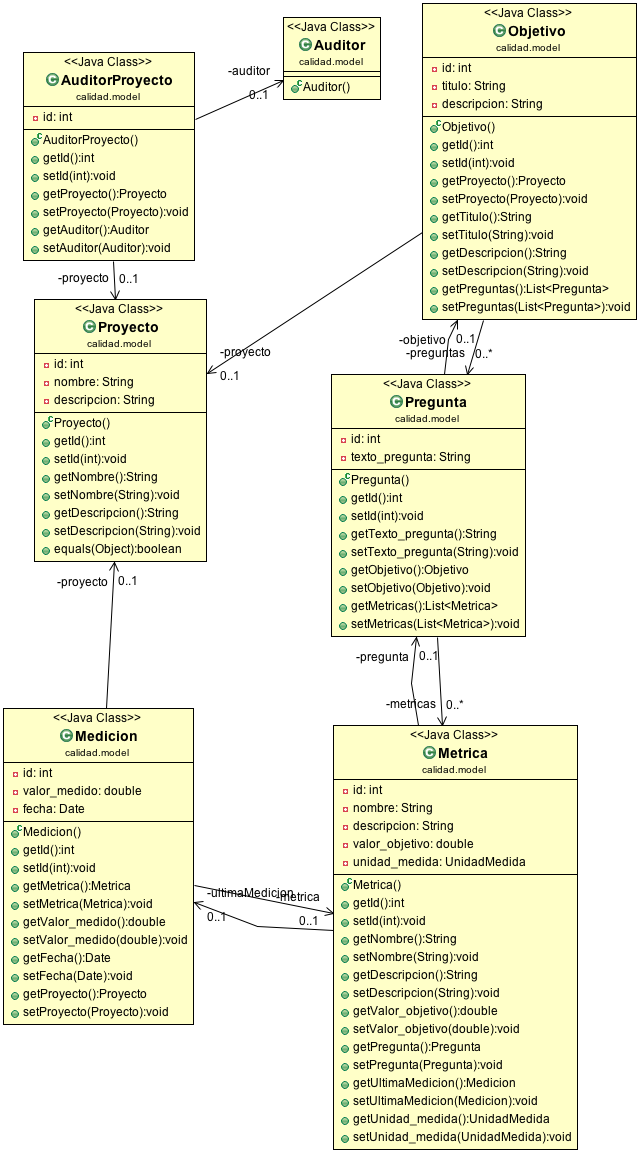
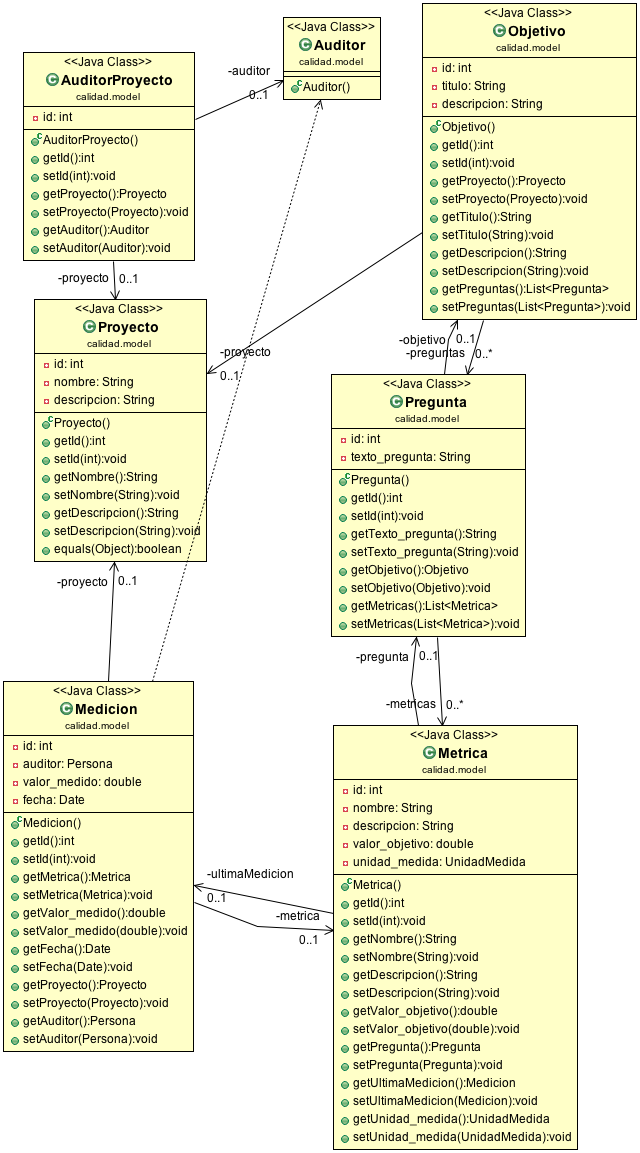
Corrigiendo errores
Agregados montones de correcciones a los defectos pendientes que tenía
el sistema:

* Se pueden agregar y quitar colaboradores de los proyectos.
* Se muestra el auditor que tomó una medición y se muestra el porcentaje
de cumplimiento.
* No hay links rotos, y se muestran solamente los links que el usuario
está autorizado a tener.

Changed region(s): [[0.0, 0.5308, 0.3125, 0.9367], [0.3125, 0.7493, 0.5, 0.8118]]

diff --git a/src/main/java/calidad/service/impl/AuthenticationUserDetails.java b/src/main/java/calidad/service/impl/AuthenticationUserDetails.java
@@ -9,11 +9,14 @@ import org.springframework.security.core.GrantedAuthority;
 import calidad.model.Group;
 import calidad.model.Permission;
 import calidad.model.PermissionGranted;
+import calidad.model.Persona;
 import calidad.model.User;
+import calidad.service.UserDetails;
 
 
-public class AuthenticationUserDetails implements org.springframework.security.core.userdetails.UserDetails {
-    /**
+public class AuthenticationUserDetails implements org.springframework.security.core.userdetails.UserDetails,UserDetails 
+{
+	/**
 	 * 
 	 */
 	private static final long serialVersionUID = 1L;
@@ -21,6 +24,7 @@ public class AuthenticationUserDetails implements org.springframework.security.c
     private final String login;
     private final String passwordHash;
     private final boolean enabled;
+    private Persona persona;
     private HashSet<GrantedAuthority> grantedAuthorities = new HashSet<GrantedAuthority>();
     private static Logger log=LogManager.getLogger(AuthenticationUserDetails.class);
     private User user;
@@ -33,6 +37,7 @@ public class AuthenticationUserDetails implements org.springframework.security.c
         this.enabled = (user.getEnabled()==1 ? true:false);
         // Convierto los permisos leidos de la base, para el grupo al que pertenece el usuario, en Authorities.
         Group g=user.getGroup();
+        this.setPersona(user.getPersona());
         for(Permission p:g.getPermissions())
         {
         	PermissionGranted pg=new PermissionGranted(p.getAuthority());
@@ -100,5 +105,15 @@ public class AuthenticationUserDetails implements org.springframework.security.c
 
 	public void setUser(User user) {
 		this.user = user;
+	}
+
+	@Override
+	public Persona getPersona() 
+	{
+		return this.persona;
+	}
+
+	public void setPersona(Persona persona) {
+		this.persona = persona;
 	}
 }

diff --git a/src/main/java/calidad/controller/MedicionController.java b/src/main/java/calidad/controller/MedicionController.java
@@ -9,6 +9,8 @@ import org.apache.log4j.LogManager;
 import org.apache.log4j.Logger;
 import org.springframework.beans.factory.annotation.Autowired;
 import org.springframework.security.access.prepost.PreAuthorize;
+import org.springframework.security.core.Authentication;
+import org.springframework.security.core.context.SecurityContextHolder;
 import org.springframework.stereotype.Controller;
 import org.springframework.ui.Model;
 import org.springframework.ui.ModelMap;
@@ -27,8 +29,10 @@ import calidad.documentation.Descripcion;
 import calidad.documentation.DescripcionClase;
 import calidad.model.Medicion;
 import calidad.model.MedicionJson;
+import calidad.model.Persona;
 import calidad.service.MedicionService;
 import calidad.service.MetricasService;
+import calidad.service.UserDetails;
 
 @Controller
 @RequestMapping("/medicion")
@@ -97,7 +101,12 @@ public class MedicionController extends AppController
 			ModelAndView modelo=new ModelAndView("redirect:/menu");
 			try
 			{
-				medicionService.agregar(medicion,metrica_id);
+				// Obtenemos el usuario actual!! Tiene que ser una persona
+				// con permisos de auditor.
+				Authentication auth = SecurityContextHolder.getContext().getAuthentication();
+				UserDetails u=(UserDetails) auth.getPrincipal();
+				Persona p=u.getPersona();
+				medicionService.agregar(medicion,metrica_id,p);
 				redirectAttributes.addFlashAttribute("message","Medici&oacute;n agregada exitosamente");
 			}
 			catch(Exception e)

diff --git a/src/main/java/calidad/service/impl/MedicionServiceImpl.java b/src/main/java/calidad/service/impl/MedicionServiceImpl.java
@@ -14,6 +14,7 @@ import calidad.dao.MetricasDAO;
 import calidad.model.Medicion;
 import calidad.model.MedicionJson;
 import calidad.model.Metrica;
+import calidad.model.Persona;
 import calidad.model.Proyecto;
 import calidad.service.MedicionService;
 
@@ -35,7 +36,7 @@ public class MedicionServiceImpl implements MedicionService
 	}
 	
 	@Override
-	public void agregar(Medicion medicion,int metrica_id) 
+	public void agregar(Medicion medicion,int metrica_id,Persona persona) 
 	{
 		// Tengo que buscar la metrica y asociarla
 		Metrica m=metricasDAO.getById(metrica_id);
@@ -43,6 +44,7 @@ public class MedicionServiceImpl implements MedicionService
 		Proyecto p=m.getPregunta().getObjetivo().getProyecto();
 		medicion.setProyecto(p);
 		medicion.setFecha(Calendar.getInstance().getTime());
+		medicion.setAuditor(persona);
 		medicionDAO.add(medicion);
 	}
 

diff --git a/src/main/java/calidad/controller/MetricasController.java b/src/main/java/calidad/controller/MetricasController.java
@@ -110,6 +110,7 @@ public class MetricasController extends AppController
 			catch(Exception e)
 			{
 				model.addAttribute("message","Errores al grabar la metrica");
+				model.addAttribute("type","danger");
 				modelo=this.cargarFormMetrica("metrica_add",metrica);
 			}
 			return modelo;
@@ -155,6 +156,7 @@ public class MetricasController extends AppController
 			{
 				log.trace("Error al grabar: "+e.getMessage());
 				model.addAttribute("message","Error al editar Metrica");
+				model.addAttribute("type","danger");
 				modelo=this.cargarFormMetrica("metrica_edit",metrica);
 			}
 			return modelo;

diff --git a/src/main/java/calidad/dao/hibernate/ColaboradorProyectoDAOImpl.java b/src/main/java/calidad/dao/hibernate/ColaboradorProyectoDAOImpl.java
@@ -3,6 +3,7 @@ package calidad.dao.hibernate;
 import java.util.List;
 
 import org.springframework.stereotype.Repository;
+import org.springframework.transaction.annotation.Transactional;
 
 import calidad.dao.ColaboradorProyectoDAO;
 import calidad.model.ColaboradorProyecto;
@@ -18,9 +19,10 @@ public class ColaboradorProyectoDAOImpl extends GenericDAOImpl<ColaboradorProyec
 	}
 
 	@Override
+	@Transactional
 	public void quitarColaboradorProyecto(ColaboradorProyecto p) 
 	{
-		sessionFactory.getCurrentSession().remove(p);
+		sessionFactory.getCurrentSession().delete(p);
 	}
 
 	@Override

diff --git a/src/main/java/calidad/service/MedicionService.java b/src/main/java/calidad/service/MedicionService.java
@@ -4,13 +4,14 @@ import java.util.List;
 
 import calidad.model.Medicion;
 import calidad.model.MedicionJson;
+import calidad.model.Persona;
 
 public interface MedicionService 
 {
 	List<Medicion> listarMedicionesProyecto(int proyecto_id);
 	List<Medicion> listarMedicionesMetrica(int metrica_id);
 	List<MedicionJson> listarMedicionesMetricaJson(int metrica_id);
-	void agregar(Medicion medicion, int metrica_id);
+	void agregar(Medicion medicion, int metrica_id, Persona p);
 	Medicion getMedicionById(Integer medicionId);
 	void grabar(Medicion medicion);
 }

diff --git a/src/main/java/calidad/model/Medicion.java b/src/main/java/calidad/model/Medicion.java
@@ -22,6 +22,9 @@ public class Medicion
 	@GeneratedValue(strategy = GenerationType.IDENTITY)
 	private int id;
 	@ManyToOne
+	@JoinColumn(name="auditor_id")
+	private Persona auditor;
+	@ManyToOne
 	@JoinColumn(name="metrica_id")
 	private Metrica metrica;
 	private double valor_medido;
@@ -58,5 +61,11 @@ public class Medicion
 	}
 	public void setProyecto(Proyecto proyecto) {
 		this.proyecto = proyecto;
+	}
+	public Persona getAuditor() {
+		return auditor;
+	}
+	public void setAuditor(Persona auditor) {
+		this.auditor = auditor;
 	}
 }

diff --git a/src/main/java/calidad/service/UserDetails.java b/src/main/java/calidad/service/UserDetails.java
@@ -4,11 +4,14 @@ import java.io.Serializable;
 import java.util.*;
 import org.springframework.security.core.GrantedAuthority;
 
+import calidad.model.Persona;
+
 public interface UserDetails extends Serializable 
 {
     Collection<GrantedAuthority> getAuthorities();
     String getPassword();
     String getUsername();
+    Persona getPersona();
     boolean isAccountNonExpired();
     boolean isAccountNonLocked();
     boolean isCredentialsNonExpired();
